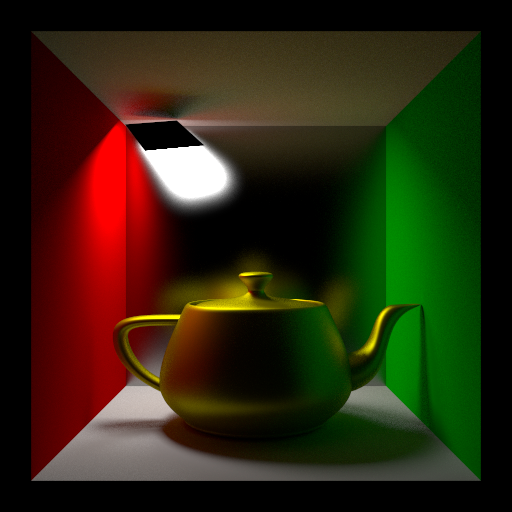
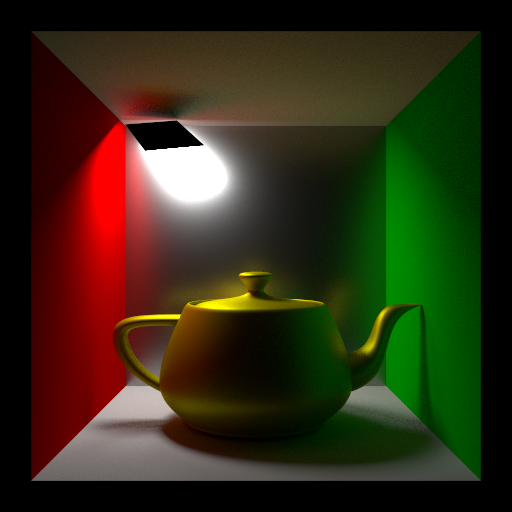
edit

diff --git a/tests_lights2.cpp b/tests_lights2.cpp
@@ -1170,10 +1170,10 @@ namespace LGHT_TESTS
 
       xml_node refl = matNode.append_child(L"reflectivity");
 
-      refl.append_attribute(L"brdf_type").set_value(L"phong");
+      refl.append_attribute(L"brdf_type").set_value(L"ggx");
       refl.append_child(L"color").append_attribute(L"val").set_value(L"0.367059 0.345882 0");
       refl.append_child(L"glossiness").append_attribute(L"val").set_value(L"0.5");
-      refl.append_child(L"energy_fix").append_attribute(L"val") = 1;
+      refl.append_child(L"energy_fix").append_attribute(L"val") = 0;
     }
     hrMaterialClose(mat1);
 
@@ -1271,10 +1271,10 @@ namespace LGHT_TESTS
 
       xml_node refl = matNode.append_child(L"reflectivity");
 
-      refl.append_attribute(L"brdf_type").set_value(L"phong");
+      refl.append_attribute(L"brdf_type").set_value(L"ggx");
       refl.append_child(L"color").append_attribute(L"val").set_value(L"0.4 0.4 0.4");
       refl.append_child(L"glossiness").append_attribute(L"val").set_value(L"0.75");
-      refl.append_child(L"energy_fix").append_attribute(L"val") = 1;
+      refl.append_child(L"energy_fix").append_attribute(L"val") = 0;
     }
     hrMaterialClose(mat9);
 
@@ -1500,8 +1500,9 @@ namespace LGHT_TESTS
   {
     std::wstring nameTest                 = L"test_224";
     std::filesystem::path libraryPath     = L"tests_f/"      + nameTest;
-    std::filesystem::path saveRenderFile  = L"tests_images/" + nameTest + L"/z_out.png";
-    std::filesystem::path saveRenderFile2 = L"tests_images/" + nameTest + L"/z_out2.png";
+    std::filesystem::path saveRenderFile0 = L"tests_images/" + nameTest + L"/z_out.png";
+    std::filesystem::path saveRenderFile  = L"tests_images/" + nameTest + L"/z_out2.png";
+    std::filesystem::path saveRenderFile2 = L"tests_images/" + nameTest + L"/z_out3.png";
 
     hrErrorCallerPlace(nameTest.c_str());
     hrSceneLibraryOpen(libraryPath.wstring().c_str(), HR_WRITE_DISCARD);
@@ -1797,25 +1798,6 @@ namespace LGHT_TESTS
 
     ////////////////////////////////////////////////////////////////////////////////////////////////////////////////////////////
 
-    hrRenderOpen(renderRef, HR_WRITE_DISCARD);
-    {
-      pugi::xml_node node = hrRenderParamNode(renderRef);
-
-      node.append_child(L"width").text()  = TEST_SCREEN_SIZE;
-      node.append_child(L"height").text() = TEST_SCREEN_SIZE;
-
-      node.append_child(L"method_primary").text()   = L"IBPT";
-      node.append_child(L"method_secondary").text() = L"IBPT";
-      node.append_child(L"method_tertiary").text()  = L"IBPT";
-      node.append_child(L"method_caustic").text()   = L"IBPT";
-      node.append_child(L"shadows").text() = L"1";
-
-      node.append_child(L"trace_depth").text()      = L"6";
-      node.append_child(L"diff_trace_depth").text() = L"3";
-      node.append_child(L"maxRaysPerPixel").text()  = 2048;
-    }
-    hrRenderClose(renderRef);
-
     // create scene
     //
     HRSceneInstRef scnRef = hrSceneCreate(L"my scene");
@@ -1873,15 +1855,57 @@ namespace LGHT_TESTS
 
     hrSceneClose(scnRef);
 
+    hrRenderOpen(renderRef, HR_WRITE_DISCARD);
+    {
+      pugi::xml_node node = hrRenderParamNode(renderRef);
+
+      node.append_child(L"width").text()  = TEST_SCREEN_SIZE;
+      node.append_child(L"height").text() = TEST_SCREEN_SIZE;
+
+      node.append_child(L"method_primary").text()   = L"pathtracing";
+      node.append_child(L"method_secondary").text() = L"pathtracing";
+      node.append_child(L"method_tertiary").text()  = L"pathtracing";
+      node.append_child(L"method_caustic").text()   = L"pathtracing";
+      node.append_child(L"shadows").text() = L"1";
+
+      node.append_child(L"trace_depth").text()      = L"6";
+      node.append_child(L"diff_trace_depth").text() = L"6";
+      node.append_child(L"maxRaysPerPixel").text()  = 2048;
+    }
+    hrRenderClose(renderRef);
+
     hrFlush(scnRef, renderRef);
 
-    ////////////////////
-    // Rendering and save
-    ////////////////////
+    ////////////////////////////////////////////////////////////////////////////////
 
     RenderProgress(renderRef);
 
     std::filesystem::create_directories(saveRenderFile.parent_path());
+    hrRenderSaveFrameBufferLDR(renderRef, saveRenderFile0.wstring().c_str());
+
+    hrRenderOpen(renderRef, HR_OPEN_EXISTING);
+    {
+      pugi::xml_node node = hrRenderParamNode(renderRef);
+
+      node.child(L"width").text()  = TEST_SCREEN_SIZE;
+      node.child(L"height").text() = TEST_SCREEN_SIZE;
+
+      node.child(L"method_primary").text()   = L"IBPT";
+      node.child(L"method_secondary").text() = L"IBPT";
+      node.child(L"method_tertiary").text()  = L"IBPT";
+      node.child(L"method_caustic").text()   = L"IBPT";
+      node.child(L"shadows").text() = L"1";
+
+      node.child(L"trace_depth").text()      = L"6";
+      node.child(L"diff_trace_depth").text() = L"6";
+      node.child(L"maxRaysPerPixel").text()  = 2048;
+    }
+    hrRenderClose(renderRef);
+
+    hrFlush(scnRef, renderRef);
+
+    RenderProgress(renderRef);
+
     hrRenderSaveFrameBufferLDR(renderRef, saveRenderFile.wstring().c_str());
 
   
@@ -1908,7 +1932,6 @@ namespace LGHT_TESTS
 
     RenderProgress(renderRef);
 
-    std::filesystem::create_directories(saveRenderFile.parent_path());
     hrRenderSaveFrameBufferLDR(renderRef, saveRenderFile2.wstring().c_str());
 
     return check_images(ws2s(nameTest).c_str(), 2, 40);

diff --git a/main.cpp b/main.cpp
@@ -216,17 +216,17 @@ int main(int argc, const char** argv)
     // new test list for hydra3
     if(true)
     {
-      //test_078_material_remap_list1();
-      //test_079_material_remap_list2();
-      //MTL_TESTS::test_101_diffuse_lambert_orbspec_mat01();
-      //MTL_TESTS::test_102_mirror_orbspec_mat02();
-      //MTL_TESTS::test_103_diffuse_texture();
-      //MTL_TESTS::test_110_texture_sampler();
-      //MTL_TESTS::test_123_emission();
-      //MTL_TESTS::test_124_emission_texture();
+      test_078_material_remap_list1();
+      test_079_material_remap_list2();
+      MTL_TESTS::test_101_diffuse_lambert_orbspec_mat01();
+      MTL_TESTS::test_102_mirror_orbspec_mat02();
+      MTL_TESTS::test_103_diffuse_texture();
+      MTL_TESTS::test_110_texture_sampler();
+      MTL_TESTS::test_123_emission();
+      MTL_TESTS::test_124_emission_texture();
       LGHT_TESTS::test_215_light_scale_intensity();
-      //LGHT_TESTS::test_223_rotated_area_light();
-      //LGHT_TESTS::test_224_rotated_area_light2();
+      LGHT_TESTS::test_223_rotated_area_light();
+      LGHT_TESTS::test_224_rotated_area_light2();
     }
 
     //run_all_microfacet_torrance_sparrow();
